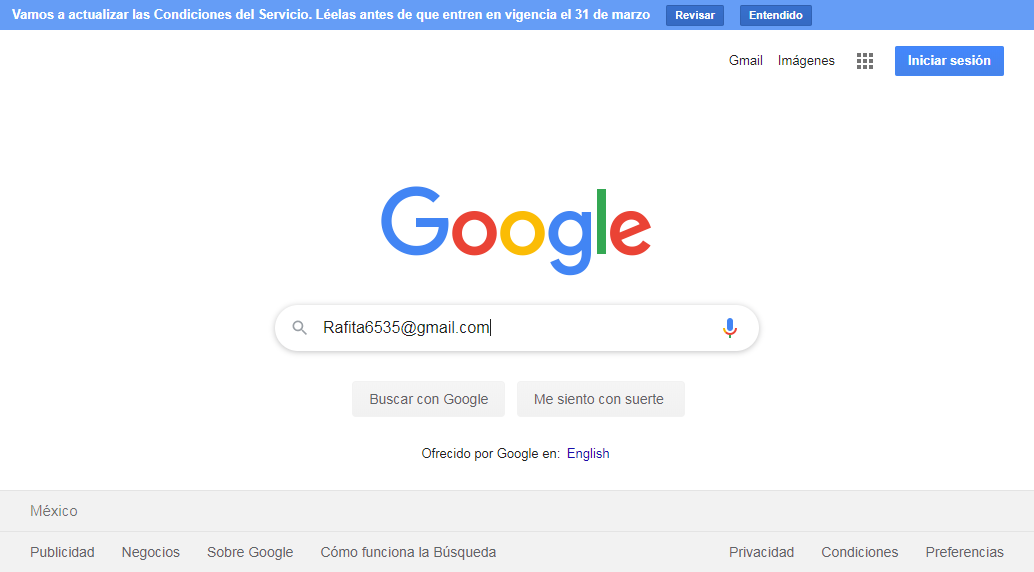
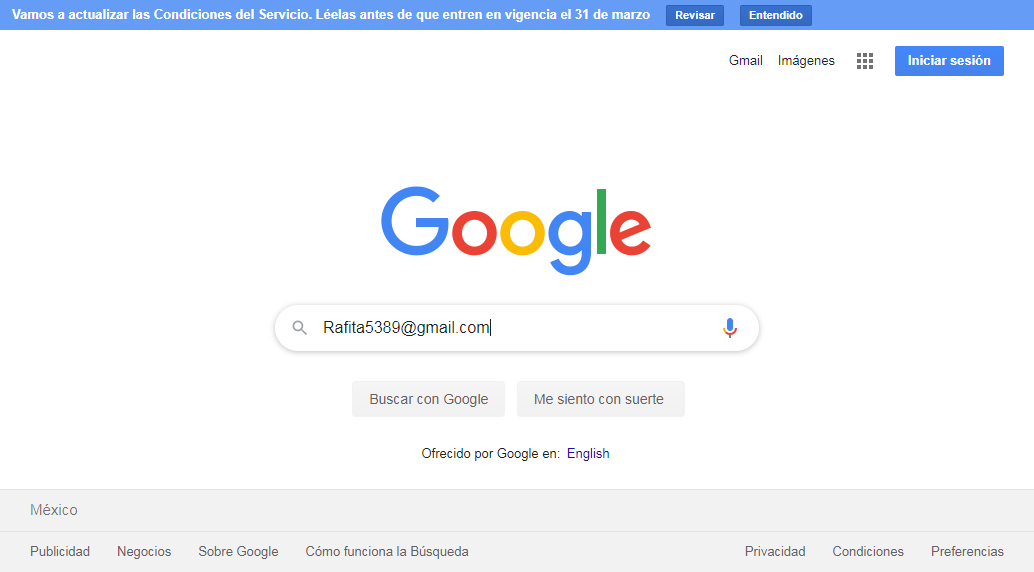
se termino el reporte, se agrego el dragndrop

diff --git a/src/main/java/reports/reporte.html b/src/main/java/reports/reporte.html
@@ -10,50 +10,54 @@
 <tbody><tr>
 <th scope="row">TC1</th><th scope="row">1.0</th><td>Navegar a google</td><td>navigate</td><td>https://www.google.com/</td>
 <td><span><img src="../img/pass-icon.png" height="30" width="30"></span></td>
-<td><a href="C:\Users\Training\Desktop\Prueba\frameWorkBatch3\Screenshots\TC1\Step 1.0 navigate.png"> Screenshot</a></td><td> 17-03-2020 12:19:26</td></tr> </div>
+<td><a href="C:\Users\Training\Desktop\Prueba\frameWorkBatch3\Screenshots\TC1\Step 1.0 navigate.png"> Screenshot</a></td><td> 17-03-2020 16:33:13</td></tr> </div>
 <tbody><tr>
 <th scope="row">TC1</th><th scope="row">2.0</th><td></td><td>randemail</td><td></td>
 <td><span><img src="../img/pass-icon.png" height="30" width="30"></span></td>
-<td><a href="C:\Users\Training\Desktop\Prueba\frameWorkBatch3\Screenshots\TC1\Step 2.0 randemail.png"> Screenshot</a></td><td> 17-03-2020 12:19:29</td></tr> </div>
+<td><a href="C:\Users\Training\Desktop\Prueba\frameWorkBatch3\Screenshots\TC1\Step 2.0 randemail.png"> Screenshot</a></td><td> 17-03-2020 16:33:15</td></tr> </div>
 <tbody><tr>
-<th scope="row">TC1</th><th scope="row">3.0</th><td></td><td>click</td><td></td>
+<th scope="row">TC1</th><th scope="row">3.0</th><td></td><td>dragndrop</td><td></td>
 <td><span><img src="../img/pass-icon.png" height="30" width="30"></span></td>
-<td><a href="C:\Users\Training\Desktop\Prueba\frameWorkBatch3\Screenshots\TC1\Step 3.0 click.png"> Screenshot</a></td><td> 17-03-2020 12:19:30</td></tr> </div>
+<td><a href="C:\Users\Training\Desktop\Prueba\frameWorkBatch3\Screenshots\TC1\Step 3.0 dragndrop.png"> Screenshot</a></td><td> 17-03-2020 16:33:16</td></tr> </div>
+<tbody><tr>
+<th scope="row">TC1</th><th scope="row">4.0</th><td></td><td>type</td><td></td>
+<td><span><img src="../img/failed-icon.png" height="30" width="30"></span></td>
+<td><a href="C:\Users\Training\Desktop\Prueba\frameWorkBatch3\Screenshots\TC1\Step 4.0 type.png"> Screenshot</a></td><td> 17-03-2020 16:33:17</td></tr> </div>
 <tbody><tr>
 <th scope="row">TC1</th><th scope="row">4.0</th><td></td><td>wait </td><td></td>
 <td><span><img src="../img/pass-icon.png" height="30" width="30"></span></td>
-<td><a href="C:\Users\Training\Desktop\Prueba\frameWorkBatch3\Screenshots\TC1\Step 4.0 wait .png"> Screenshot</a></td><td> 17-03-2020 12:19:33</td></tr> </div>
+<td><a href="C:\Users\Training\Desktop\Prueba\frameWorkBatch3\Screenshots\TC1\Step 4.0 wait .png"> Screenshot</a></td><td> 17-03-2020 16:33:18</td></tr> </div>
 <tbody><tr>
-<th scope="row">TC1</th><th scope="row">0.0</th><td></td><td></td><td></td>
+<th scope="row">TC2</th><th scope="row">4.0</th><td></td><td></td><td></td>
 <td><span><img src="../img/pass-icon.png" height="30" width="30"></span></td>
-<td><a href="C:\Users\Training\Desktop\Prueba\frameWorkBatch3\Screenshots\TC1\Step 0.0 .png"> Screenshot</a></td><td> 17-03-2020 12:19:34</td></tr> </div>
-<tbody><tr>
-<th scope="row">TC2</th><th scope="row">0.0</th><td></td><td></td><td></td>
-<td><span><img src="../img/pass-icon.png" height="30" width="30"></span></td>
-<td><a href="C:\Users\Training\Desktop\Prueba\frameWorkBatch3\Screenshots\TC2\Step 0.0 .png"> Screenshot</a></td><td> 17-03-2020 12:19:35</td></tr> </div>
+<td><a href="C:\Users\Training\Desktop\Prueba\frameWorkBatch3\Screenshots\TC2\Step 4.0 .png"> Screenshot</a></td><td> 17-03-2020 16:33:18</td></tr> </div>
 <tbody><tr>
 <th scope="row">TC2</th><th scope="row">1.0</th><td>Navegar a google</td><td>navigate</td><td>https://www.google.com/</td>
 <td><span><img src="../img/pass-icon.png" height="30" width="30"></span></td>
-<td><a href="C:\Users\Training\Desktop\Prueba\frameWorkBatch3\Screenshots\TC2\Step 1.0 navigate.png"> Screenshot</a></td><td> 17-03-2020 12:19:36</td></tr> </div>
+<td><a href="C:\Users\Training\Desktop\Prueba\frameWorkBatch3\Screenshots\TC2\Step 1.0 navigate.png"> Screenshot</a></td><td> 17-03-2020 16:33:18</td></tr> </div>
 <tbody><tr>
 <th scope="row">TC2</th><th scope="row">2.0</th><td></td><td>compto</td><td>Hola</td>
 <td><span><img src="../img/pass-icon.png" height="30" width="30"></span></td>
-<td><a href="C:\Users\Training\Desktop\Prueba\frameWorkBatch3\Screenshots\TC2\Step 2.0 compto.png"> Screenshot</a></td><td> 17-03-2020 12:19:38</td></tr> </div>
+<td><a href="C:\Users\Training\Desktop\Prueba\frameWorkBatch3\Screenshots\TC2\Step 2.0 compto.png"> Screenshot</a></td><td> 17-03-2020 16:33:20</td></tr> </div>
 <tbody><tr>
 <th scope="row">TC2</th><th scope="row">3.0</th><td></td><td>typenumeric</td><td></td>
 <td><span><img src="../img/pass-icon.png" height="30" width="30"></span></td>
-<td><a href="C:\Users\Training\Desktop\Prueba\frameWorkBatch3\Screenshots\TC2\Step 3.0 typenumeric.png"> Screenshot</a></td><td> 17-03-2020 12:19:40</td></tr> </div>
+<td><a href="C:\Users\Training\Desktop\Prueba\frameWorkBatch3\Screenshots\TC2\Step 3.0 typenumeric.png"> Screenshot</a></td><td> 17-03-2020 16:33:20</td></tr> </div>
 <tbody><tr>
 <th scope="row">TC2</th><th scope="row">4.0</th><td></td><td>click</td><td></td>
 <td><span><img src="../img/pass-icon.png" height="30" width="30"></span></td>
-<td><a href="C:\Users\Training\Desktop\Prueba\frameWorkBatch3\Screenshots\TC2\Step 4.0 click.png"> Screenshot</a></td><td> 17-03-2020 12:19:41</td></tr> </div>
+<td><a href="C:\Users\Training\Desktop\Prueba\frameWorkBatch3\Screenshots\TC2\Step 4.0 click.png"> Screenshot</a></td><td> 17-03-2020 16:33:21</td></tr> </div>
 <tbody><tr>
-<th scope="row">TC2</th><th scope="row">5.0</th><td></td><td>wait </td><td></td>
-<td><span><img src="../img/pass-icon.png" height="30" width="30"></span></td>
-<td><a href="C:\Users\Training\Desktop\Prueba\frameWorkBatch3\Screenshots\TC2\Step 5.0 wait .png"> Screenshot</a></td><td> 17-03-2020 12:19:44</td></tr> </div>
+<th scope="row">TC2</th><th scope="row">5.0</th><td></td><td>typenumeric</td><td></td>
+<td><span><img src="../img/failed-icon.png" height="30" width="30"></span></td>
+<td><a href="C:\Users\Training\Desktop\Prueba\frameWorkBatch3\Screenshots\TC2\Step 5.0 typenumeric.png"> Screenshot</a></td><td> 17-03-2020 16:33:23</td></tr> </div>
 <tbody><tr>
-<th scope="row">TC2</th><th scope="row">6.0</th><td></td><td>quit</td><td></td>
+<th scope="row">TC2</th><th scope="row">6.0</th><td></td><td>wait </td><td></td>
 <td><span><img src="../img/pass-icon.png" height="30" width="30"></span></td>
-<td><a href="C:\Users\Training\Desktop\Prueba\frameWorkBatch3\Screenshots\TC2\Step 6.0 quit.png"> Screenshot</a></td><td> 17-03-2020 12:19:45</td></tr> </div>
+<td><a href="C:\Users\Training\Desktop\Prueba\frameWorkBatch3\Screenshots\TC2\Step 6.0 wait .png"> Screenshot</a></td><td> 17-03-2020 16:33:23</td></tr> </div>
+<tbody><tr>
+<th scope="row">TC2</th><th scope="row">7.0</th><td></td><td>quit</td><td></td>
+<td><span><img src="../img/pass-icon.png" height="30" width="30"></span></td>
+<td><a href="C:\Users\Training\Desktop\Prueba\frameWorkBatch3\Screenshots\TC2\Step 7.0 quit.png"> Screenshot</a></td><td> 17-03-2020 16:33:23</td></tr> </div>
 </body>
 </html>

diff --git a/src/main/java/Utilities/DriverManager.java b/src/main/java/Utilities/DriverManager.java
@@ -37,6 +37,8 @@ public class DriverManager {
 	public void setDriver(WebDriver driver) {
 		this.driver = driver;
 	}
+	
+	
 
 	public WebElement elementCreator(Step Obj) {
 		switch (Obj.getLocator().toLowerCase()) {
@@ -63,6 +65,31 @@ public class DriverManager {
 		return element;
 
 	}
+	public WebElement elementCreatorDrag(Step Obj) {
+		switch (Obj.getDestinationLocator().toLowerCase()) {
+		case "name":
+			element = driver.findElement(By.name(Obj.getDestinationLocatorValue()));
+			break;
+		case "classname":
+			element = driver.findElement(By.className(Obj.getDestinationLocatorValue()));
+			break;
+		case "cssselector":
+			element = driver.findElement(By.cssSelector(Obj.getDestinationLocatorValue()));
+			break;
+		case "id":
+			element = driver.findElement(By.id(Obj.getDestinationLocatorValue()));
+			break;
+		case "xpath":
+			element = driver.findElement(By.xpath(Obj.getDestinationLocatorValue()));
+			break;
+		case "tagName":
+			element = driver.findElement(By.tagName(Obj.getDestinationLocatorValue()));
+			break;
+		}
+
+		return element;
+
+	}
 
 	 public static void takeSnapShot(Step Obj) throws Exception{
 		 if(Obj.getScreenshoot()==true) {
@@ -80,8 +107,6 @@ public class DriverManager {
 		                FileUtils.copyFile(SrcFile, DestFile);
 				System.out.print("Screenshot taken");
 			}
-	       
-
 	    }
 
 	public void executeStep(Step Obj) throws Exception {
@@ -101,7 +126,6 @@ public class DriverManager {
 			takeSnapShot(Obj);
 			driver.navigate().to(Obj.getValueAccion());
 			break;
-
 		case "quit":
 			takeSnapShot(Obj);
 			driver.quit();
@@ -152,7 +176,7 @@ public class DriverManager {
 			break;
 		case "confirm":
 			takeSnapShot(Obj);
-			confirm=element.isDisplayed();
+			confirm=auxElement.isDisplayed();
 			if(confirm==true) {
 				System.out.println("The element exists");
 			}else {
@@ -163,7 +187,7 @@ public class DriverManager {
 		case "compto":
 			takeSnapShot(Obj);
 			System.out.println("comparing...");
-			if(Obj.valueAccion.equals(element.getText())) {
+			if(Obj.valueAccion.equals(auxElement.getText())) {
 				confirm=true;
 			}else {
 				confirm=false;
@@ -186,6 +210,14 @@ public class DriverManager {
 			auxElement.sendKeys("Rafita"+rand+"@gmail.com");
 			break;
 			
+		case "dragndrop":
+			WebElement to=elementCreatorDrag(Obj);
+			action.dragAndDrop(auxElement, to).build().perform();
+		break;
+			
 		}
 	}
-}
+
+		
+	}
+

diff --git a/src/main/java/Utilities/Step.java b/src/main/java/Utilities/Step.java
@@ -13,9 +13,11 @@ public class Step {
 	public double waitTime;
 	public boolean pass;
 	public String time;
+	public String destinationLocator;
+	public String destinationLocatorValue;
 	
 
-	public Step(String tcName,double step, String description,String accion,String vAccion, String locator, String vLocator,boolean screenshot,double waitTime,boolean pass,String time) {
+	public Step(String tcName,double step, String description,String accion,String vAccion, String locator, String vLocator,boolean screenshot,double waitTime,boolean pass,String time,String destinationLocator,String destinationLocatorValue) {
 		this.tcName=tcName;
 		this.step=step;
 		this.description=description;
@@ -27,16 +29,29 @@ public class Step {
 		this.waitTime=waitTime;
 		this.pass=pass;
 		this.time=time;
-		
+		this.destinationLocator=destinationLocator;
+		this.destinationLocatorValue=destinationLocatorValue;
 		
 	}
+
+	
+
+
+
 
 	@Override
 	public String toString() {
 		return "Step [tcName=" + tcName + ", step=" + step + ", description=" + description + ", accion=" + accion
 				+ ", valueAccion=" + valueAccion + ", locator=" + locator + ", valueLocator=" + valueLocator
-				+ ", screenshot=" + screenshot + ", waitTime=" + waitTime + ", pass=" + pass + ", time=" + time + "]";
+				+ ", screenshot=" + screenshot + ", waitTime=" + waitTime + ", pass=" + pass + ", time=" + time
+				+ ", destinationLocator=" + destinationLocator + ", destinationLocatorValue=" + destinationLocatorValue
+				+ "]";
 	}
+
+
+
+
+
 
 	public double getStep() {
 		return step;
@@ -71,18 +86,12 @@ public class Step {
 	public String getLocator() {
 		return locator;
 	}
-
-
 	public void setLocator(String locator) {
 		this.locator = locator;
 	}
-
-
 	public String getValueLocator() {
 		return valueLocator;
 	}
-
-
 	public void setvLocator(String vLocator) {
 		this.valueLocator = vLocator;
 	}
@@ -126,8 +135,18 @@ public class Step {
 	public void setPass(boolean pass) {
 		this.pass = pass;
 	}
-	
-	
-	
-	
+
+	public String getDestinationLocator() {
+		return destinationLocator;
+	}
+
+	public void setDestinationLocator(String destinationLocator) {
+		this.destinationLocator = destinationLocator;
+	}
+	public String getDestinationLocatorValue() {
+		return destinationLocatorValue;
+	}
+	public void setDestinationLocatorValue(String destinationLocatorValue) {
+		this.destinationLocatorValue = destinationLocatorValue;
+	}
 }

diff --git a/src/main/java/Utilities/LeerXmls1.java b/src/main/java/Utilities/LeerXmls1.java
@@ -26,7 +26,7 @@ public class LeerXmls1 {
 		int cols = 0;
 		
 		// Cadena que usamos para almacenar la lectura de la celda
-		String tcName="",action = "", description = "", vAccion = "", locator = "", vLocator = "",time="";
+		String tcName="",action = "", description = "", vAccion = "", locator = "", vLocator = "",time="",destination="",destinationLocator="";
 		double Step = 0;
 		double waitTime = 0;
 		boolean screenshot = false;
@@ -78,19 +78,27 @@ public class LeerXmls1 {
 							case 5:
 								vLocator = row.getCell(c).getStringCellValue();
 								break;
-
 							case 6:
-								screenshot = row.getCell(c).getBooleanCellValue();
+								destination = row.getCell(c).getStringCellValue();
 								break;
 
 							case 7:
+								destinationLocator = row.getCell(c).getStringCellValue();
+								break;
+
+
+							case 8:
+								screenshot = row.getCell(c).getBooleanCellValue();
+								break;
+
+							case 9:
 								waitTime = row.getCell(c).getNumericCellValue();
 								break;
 							}
 						}
 					}
 				}
-				aux = new Step(tcName,Step, description, action, vAccion, locator, vLocator, screenshot, waitTime,pass,time);
+				aux = new Step(tcName,Step, description, action, vAccion, locator, vLocator, screenshot, waitTime,pass,time,destination,destinationLocator);
 				TC.add(aux);
 				tcName="";
 				action = "";

diff --git a/src/main/java/testCases/TC1.java b/src/main/java/testCases/TC1.java
@@ -28,6 +28,7 @@ public class TC1 {
 		 //Crea un Objeto OpneHtml
 		 OpenHtml openHtml=new OpenHtml();
 		//Manda el driver a element
+		 reportMethod report= new reportMethod();
 		LeerXmls1 TC = new LeerXmls1();		
 		tcList=TC.obtenObjetos("C:\\Users\\Training\\Desktop\\Prueba\\frameWorkBatch3\\excel\\TC.xlsx");
 		//lee cada uno de los steps
@@ -38,11 +39,15 @@ public class TC1 {
 			for(int i=1;i<stepList.size();i++) {
 				//imprime el paso 
 			System.out.println(stepList.get(i).toString());
-			Thread.sleep(1000);
 			//se crea un Web element y se ejecutan
+			try {
 			driverManager.executeStep(stepList.get(i));
+			}catch(Exception e) {
+			      System.out.println(" ups something went wrong.");
+			      stepList.get(i).setPass(false);
 			}
-			reportMethod report= new reportMethod();
+			}
+			
 			report.reportMaker(tcList.get(x));
 		}
 		//abre el reporte
